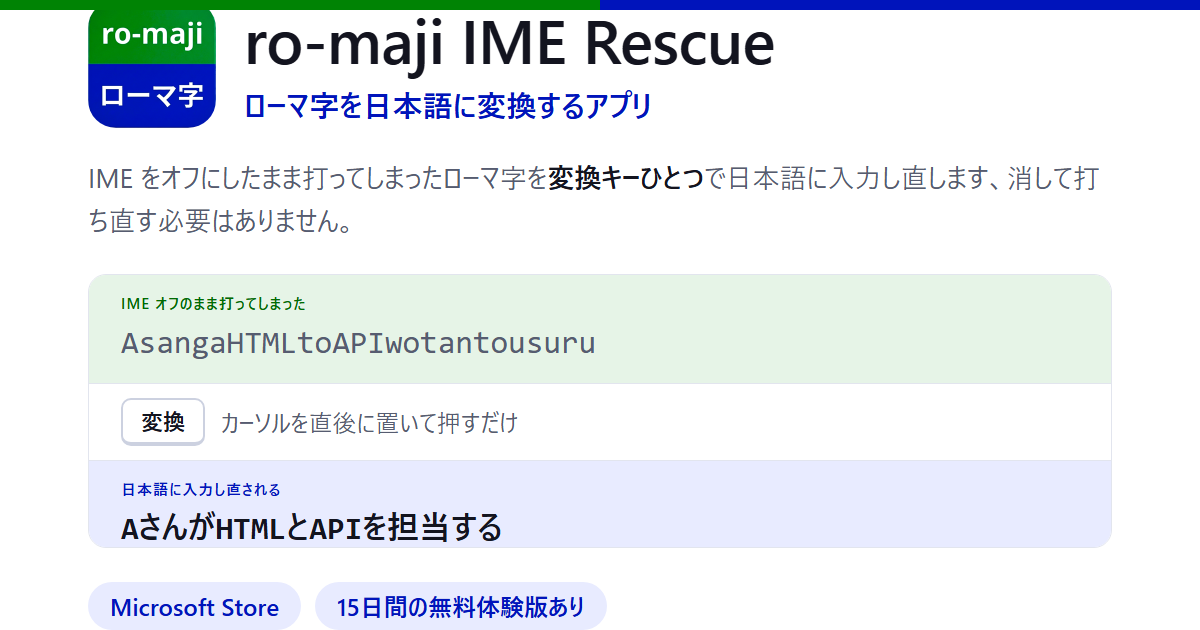
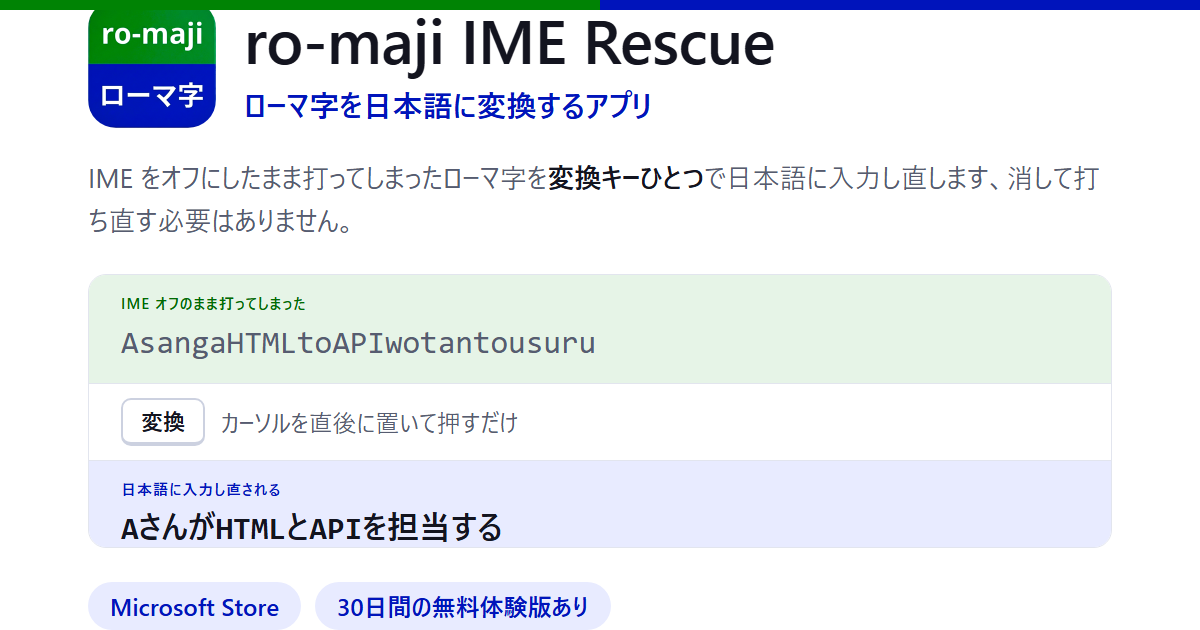
無料体験版を15日間から30日間へ変更する
サイトの本文4箇所（description・CTA注記・FAQ表示・FAQ構造化データ）、
構造化データの featureList、OGP 画像の原本（tools/og.html）と生成物
（docs/assets/img/og.png、Edge headless で撮り直し）を揃える。
STORE_LISTING.md・PRIVACY_POLICY.md・TROUBLESHOOTING.md には日数の記載なし。

Changed region(s): [[0.2775, 0.9349, 0.4933, 0.9952]]

diff --git a/_layouts/default.html b/_layouts/default.html
@@ -106,7 +106,7 @@
         "処理に失敗した場合は文字を消さずに中断するため、元の文章が壊れない",
         "ネットワーク通信を一切行わず、広告も含まない",
         "大文字の英単語は、1 文字でもそのままの表記で残す",
-        "15 日間の無料体験版がある"
+        "30 日間の無料体験版がある"
       ],
       "image": {{ site.og_image | absolute_url | jsonify }},
       "screenshot": [

diff --git a/index.md b/index.md
@@ -1,6 +1,6 @@
 ---
 title: ro-maji IME Rescue
-description: IME をオフにしたまま打ってしまったローマ字を、変換キーひとつで日本語に入力し直す Windows 常駐アプリ。右Ctrl キーにも変更できます。15日間の無料体験版があります。
+description: IME をオフにしたまま打ってしまったローマ字を、変換キーひとつで日本語に入力し直す Windows 常駐アプリ。右Ctrl キーにも変更できます。30日間の無料体験版があります。
 # sitemap の lastmod と構造化データの dateModified に使う。内容を変えたら手で更新する。
 updated: 2026-08-20
 ---
@@ -18,7 +18,7 @@ updated: 2026-08-20
 
   <div class="cta">
     <a class="btn-primary" href="{{ site.store_url }}">Microsoft Store で入手</a>
-    <p class="cta-note">15日間の無料体験版があります。ご購入の前に<a href="{{ '/#env' | relative_url }}">動作環境</a>と<a href="{{ '/#limits' | relative_url }}">できないこと</a>をご確認ください。</p>
+    <p class="cta-note">30日間の無料体験版があります。ご購入の前に<a href="{{ '/#env' | relative_url }}">動作環境</a>と<a href="{{ '/#limits' | relative_url }}">できないこと</a>をご確認ください。</p>
   </div>
 
   <div class="hero-showcase">
@@ -263,7 +263,7 @@ PDFwoexportshimasu  → PDFを得x歩rtします
   </details>
   <details>
     <summary>無料で試せますか</summary>
-    <p>15日間の無料体験版があります。Microsoft Store から入手できます。</p>
+    <p>30日間の無料体験版があります。Microsoft Store から入手できます。</p>
   </details>
   <details>
     <summary>インターネット接続や .NET は必要ですか</summary>
@@ -302,7 +302,7 @@ PDFwoexportshimasu  → PDFを得x歩rtします
       "name": "無料で試せますか",
       "acceptedAnswer": {
         "@type": "Answer",
-        "text": "15日間の無料体験版があります。Microsoft Store から入手できます。"
+        "text": "30日間の無料体験版があります。Microsoft Store から入手できます。"
       }
     },
     {
